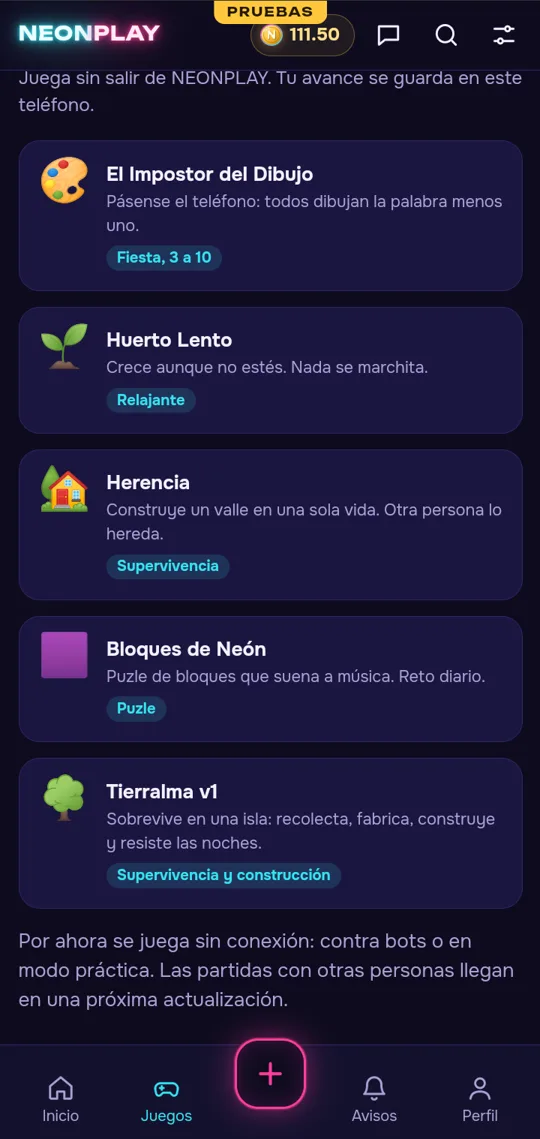
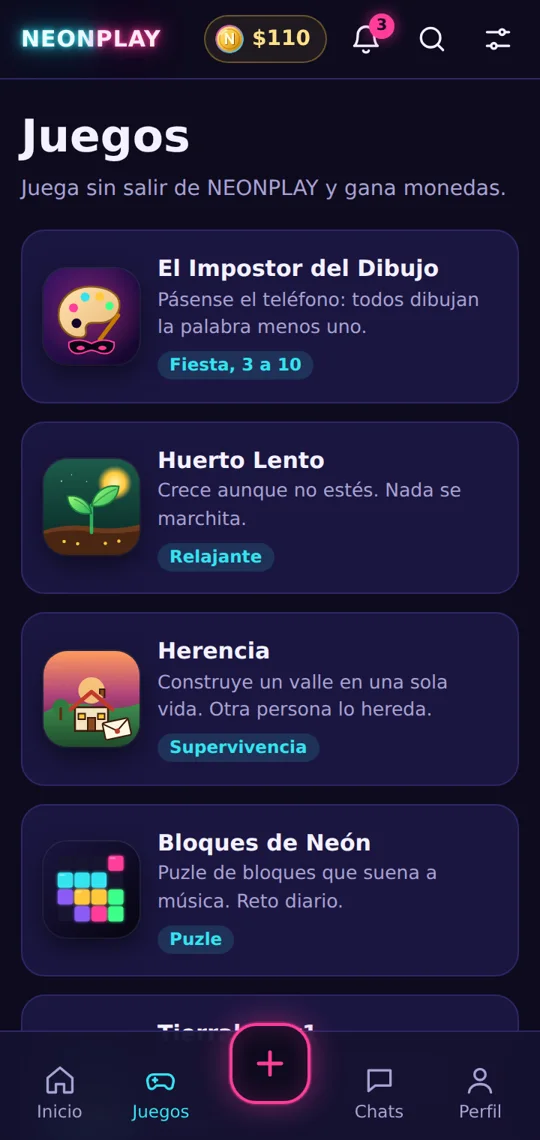
Capturas de muestra con los personajes de NEONPLAY
Claude-Session: https://claude.ai/code/session_019SVgrXFzWE6cYapiEF6cNx

diff --git a/index.html b/index.html
@@ -44,10 +44,11 @@
   <section class="wrap">
     <h2>Así se ve</h2>
     <div class="shots">
+      <figure class="phone"><img src="img/capturas/inicio.webp" alt="Inicio de NEONPLAY con publicaciones e historias" loading="lazy"><figcaption>Inicio</figcaption></figure>
       <figure class="phone"><img src="img/capturas/juegos.webp" alt="Sección de juegos de NEONPLAY" loading="lazy"><figcaption>Juegos</figcaption></figure>
       <figure class="phone"><img src="img/capturas/tienda.webp" alt="Tienda de NEONPLAY con monedas" loading="lazy"><figcaption>Tienda</figcaption></figure>
-      <figure class="phone"><img src="img/capturas/chat.webp" alt="Chat de NEONPLAY con emojis" loading="lazy"><figcaption>Chats</figcaption></figure>
     </div>
+    <p class="muted small">Imágenes de muestra con los personajes de NEONPLAY; muy pronto, capturas de la comunidad.</p>
   </section>
 
   <section class="wrap">
